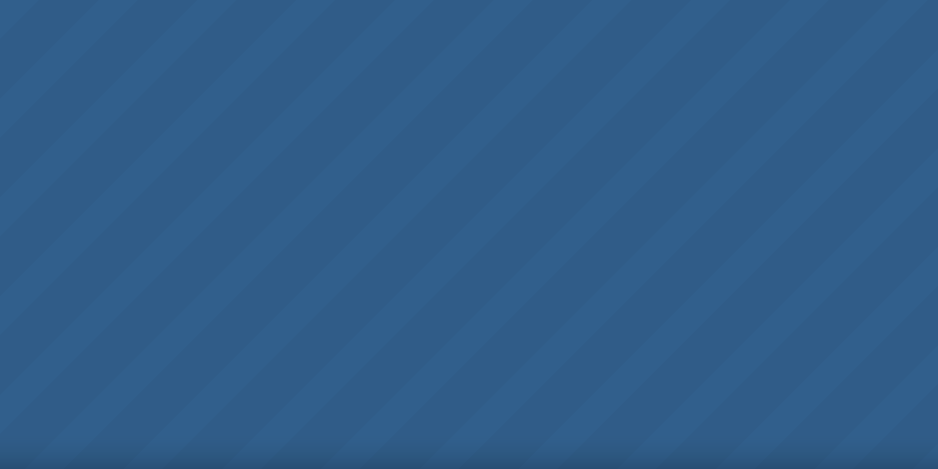
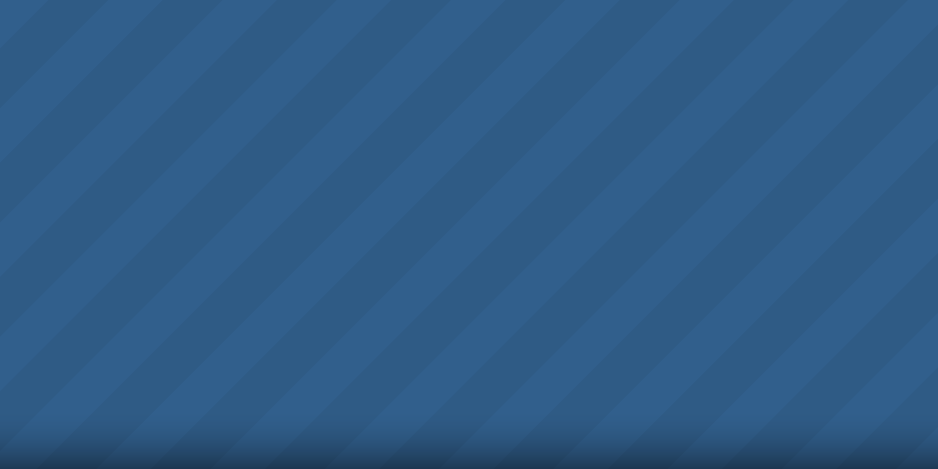
More style changes

Changed region(s): [[0.0, 0.9552, 1.0, 1.0]]

diff --git a/techblog/media/css/blog_base.css b/techblog/media/css/blog_base.css
@@ -6,9 +6,13 @@ body
 
     background-color:#ededed;
     background-color:#929292;
-    background-color:#666;
-    /*background-image:url("/media/images/blueback.png");*/
-    background-repeat:repeat-x;
+    background-color:#494949;
+    /*
+    background-image:url("/media/images/backblend.png");
+    background-position:center top;
+    background-repeat:repeat-y;
+    */
+
 }
 
 
@@ -105,7 +109,7 @@ body
 .title-area .faded-title
 {
     font-size:250%;
-    opacity:.2;
+    opacity:.3;
     font-weight:bold;
     z-index:20;
     /*font-family:"Courier New", Courier, monospace;*/
@@ -183,7 +187,7 @@ body
 {
     margin:0 auto;
     width:938px;
-    margin-top:40px;
+    margin-top:0px;
     padding-top:0px;
 
     /*border:1px solid #444;*/
@@ -504,11 +508,12 @@ a:active
 
 #column1 h2
 {
-    font-size:30px;
-    font-weight:400;
+    font-size:20px;
+    font-weight:bold;
     margin:10px -2px;
 
     color:#555;
+    color:#CC7F33;
     /*color:#B2CC99;*/
 
     /*font-weight:bold;*/
@@ -663,7 +668,10 @@ strong {font-weight:bold;}
 .post h2 a
 {
     /*font-weight:normal;*/
+    color:#555;
+    color:#5488C5;
     color:#CC7F33;
+    /*color:#CC7F33;*/
     /*color:#B2CC99;*/
 }
 
@@ -792,6 +800,7 @@ strong {font-weight:bold;}
     margin: 20px auto;
     /*background-color:#f6f6f6;*/
 }
+
 
 ul.links-list
 {

diff --git a/techblog/templates/blog.html b/techblog/templates/blog.html
@@ -10,6 +10,7 @@
 {% endblock %}
 
 {% block above_columns %}
+{% comment %}
 <div class="links-area">
     <ul class="links-list">
     <li><a href="#df">Link 1</a></li>
@@ -19,6 +20,7 @@
     </ul>
 </div>
 <div class="clear"> </div>
+{% endcomment %}
 {% endblock %}
 
 {% block column1 %}
